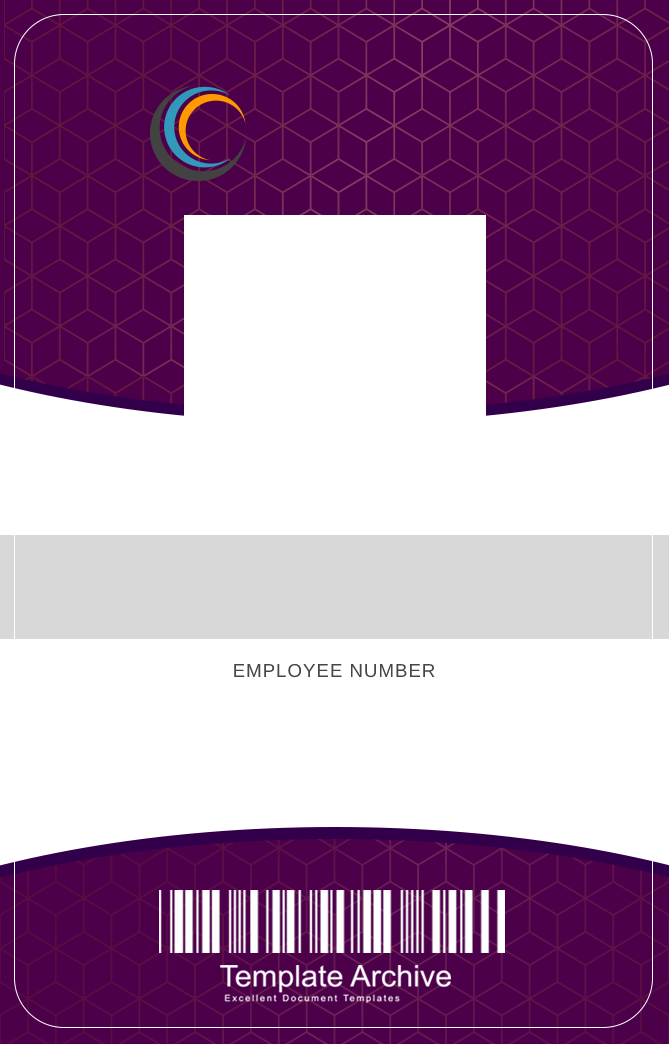
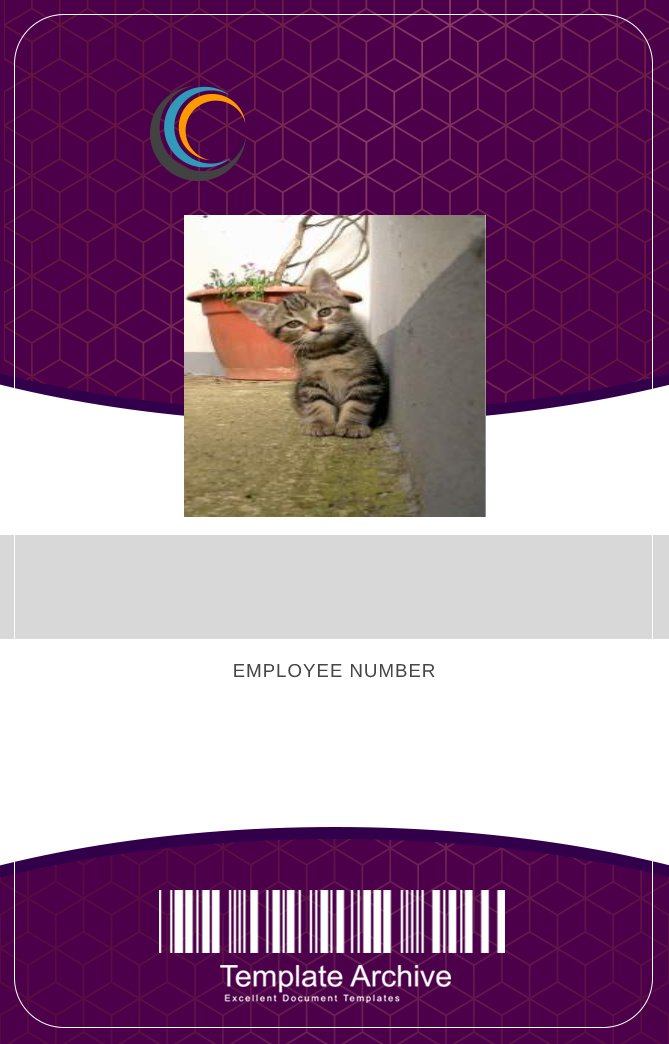
successful badge create

Changed region(s): [[0.2691, 0.1839, 0.7474, 0.5211]]

diff --git a/Util.cs b/Util.cs
@@ -68,13 +68,14 @@ namespace CatWorx.BadgeMaker
                 for (int i = 0; i < employees.Count; i++)
                 {
                     Image photo = Image.FromStream(client.OpenRead(employees[i].GetPhotoUrl()));
-                    photo.Save("data/employeeBadge.png");
+                    Image background = Image.FromFile("assets/badge.png");
+                    Image badge = new Bitmap(BADGE_WIDTH, BADGE_HEIGHT);
+                    Graphics graphic = Graphics.FromImage(badge);
+                    graphic.DrawImage(background, new Rectangle(0, 0, BADGE_WIDTH, BADGE_HEIGHT));
+                    graphic.DrawImage(photo, new Rectangle(PHOTO_START_X, PHOTO_START_Y, PHOTO_WIDTH, PHOTO_HEIGHT));
+                    // badge.Save("data/employeeBadge.png");
                 }
             }
-
-            // Create image
-            Image newImage = Image.FromFile("assets/badge.png");
-            newImage.Save("data/employeeBadge.png");
         }
     }
 }
